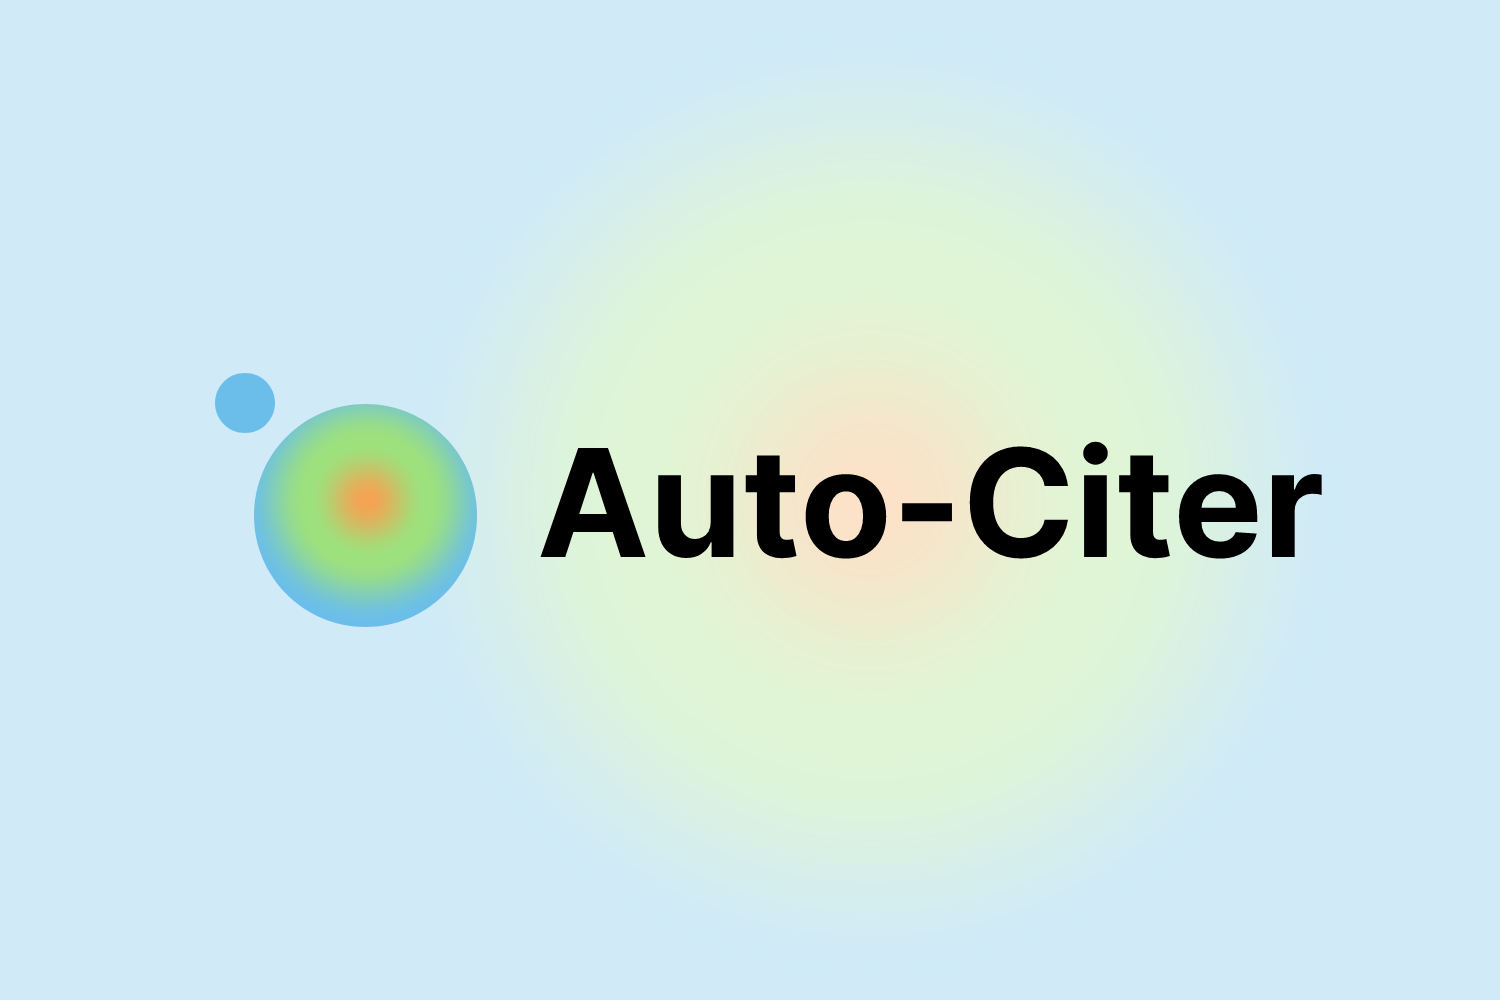
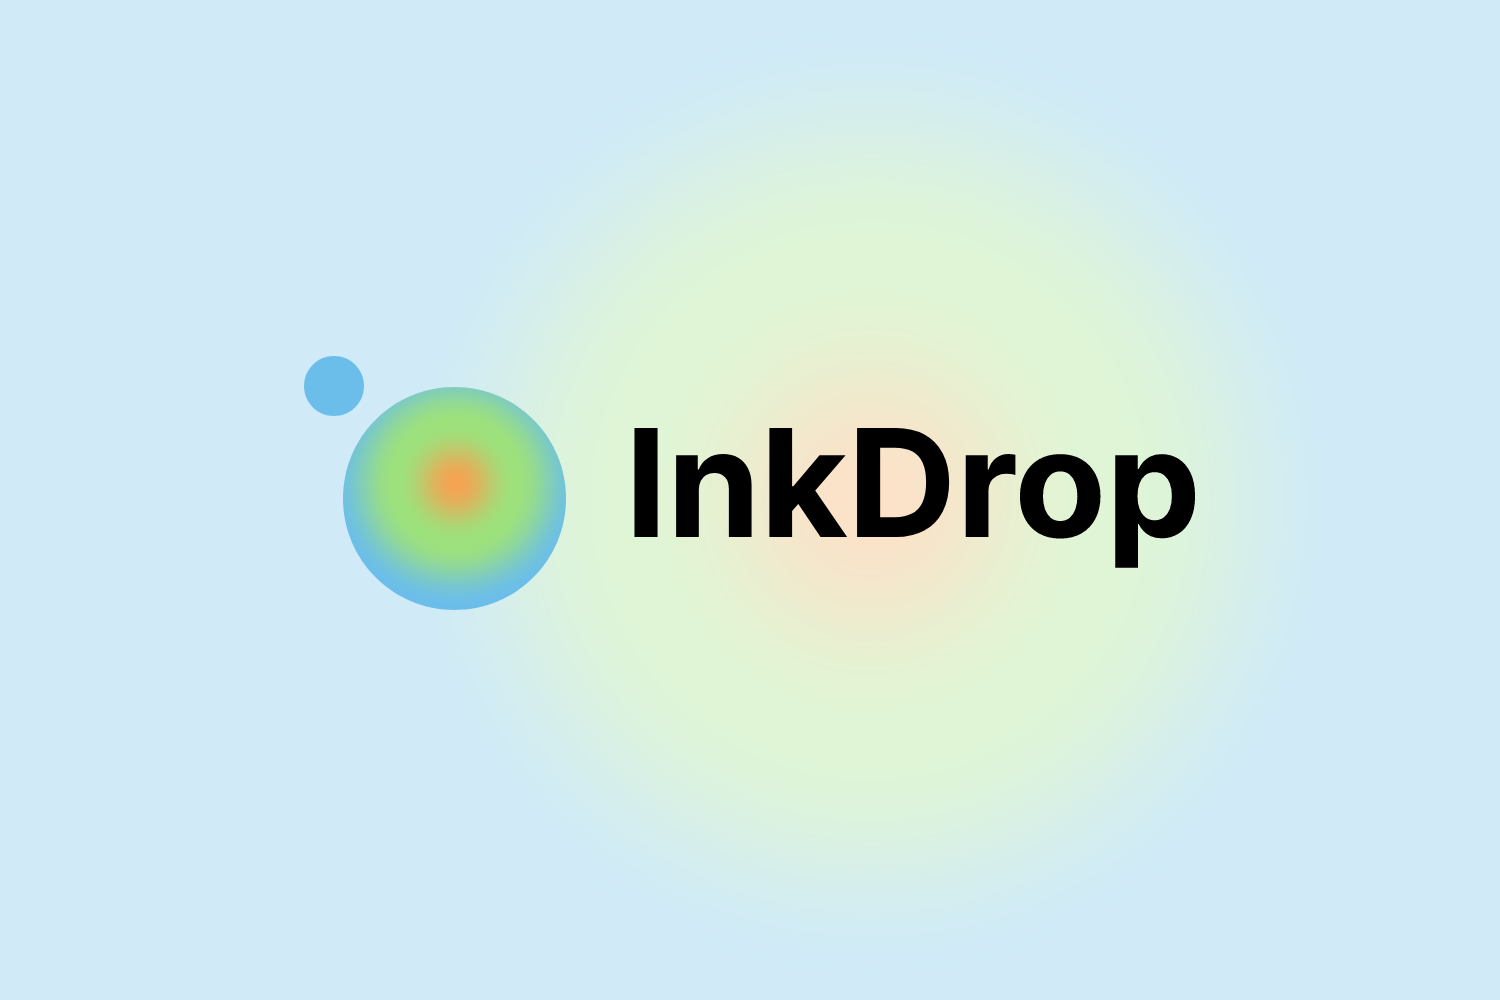
changed name

Changed region(s): [[0.1227, 0.341, 0.8893, 0.651]]

diff --git a/public/popup.html b/public/popup.html
@@ -2,7 +2,7 @@
 <html>
 
 <head>
-    <title>Auto Citer</title>
+    <title>InkDrop</title>
     <meta charset="utf-8">
 </head>
 

diff --git a/readme.md b/readme.md
@@ -1,4 +1,4 @@
-# Auto-Citer
+# InkDrop
 
 ## To-Do
 - [ ] finish context view
